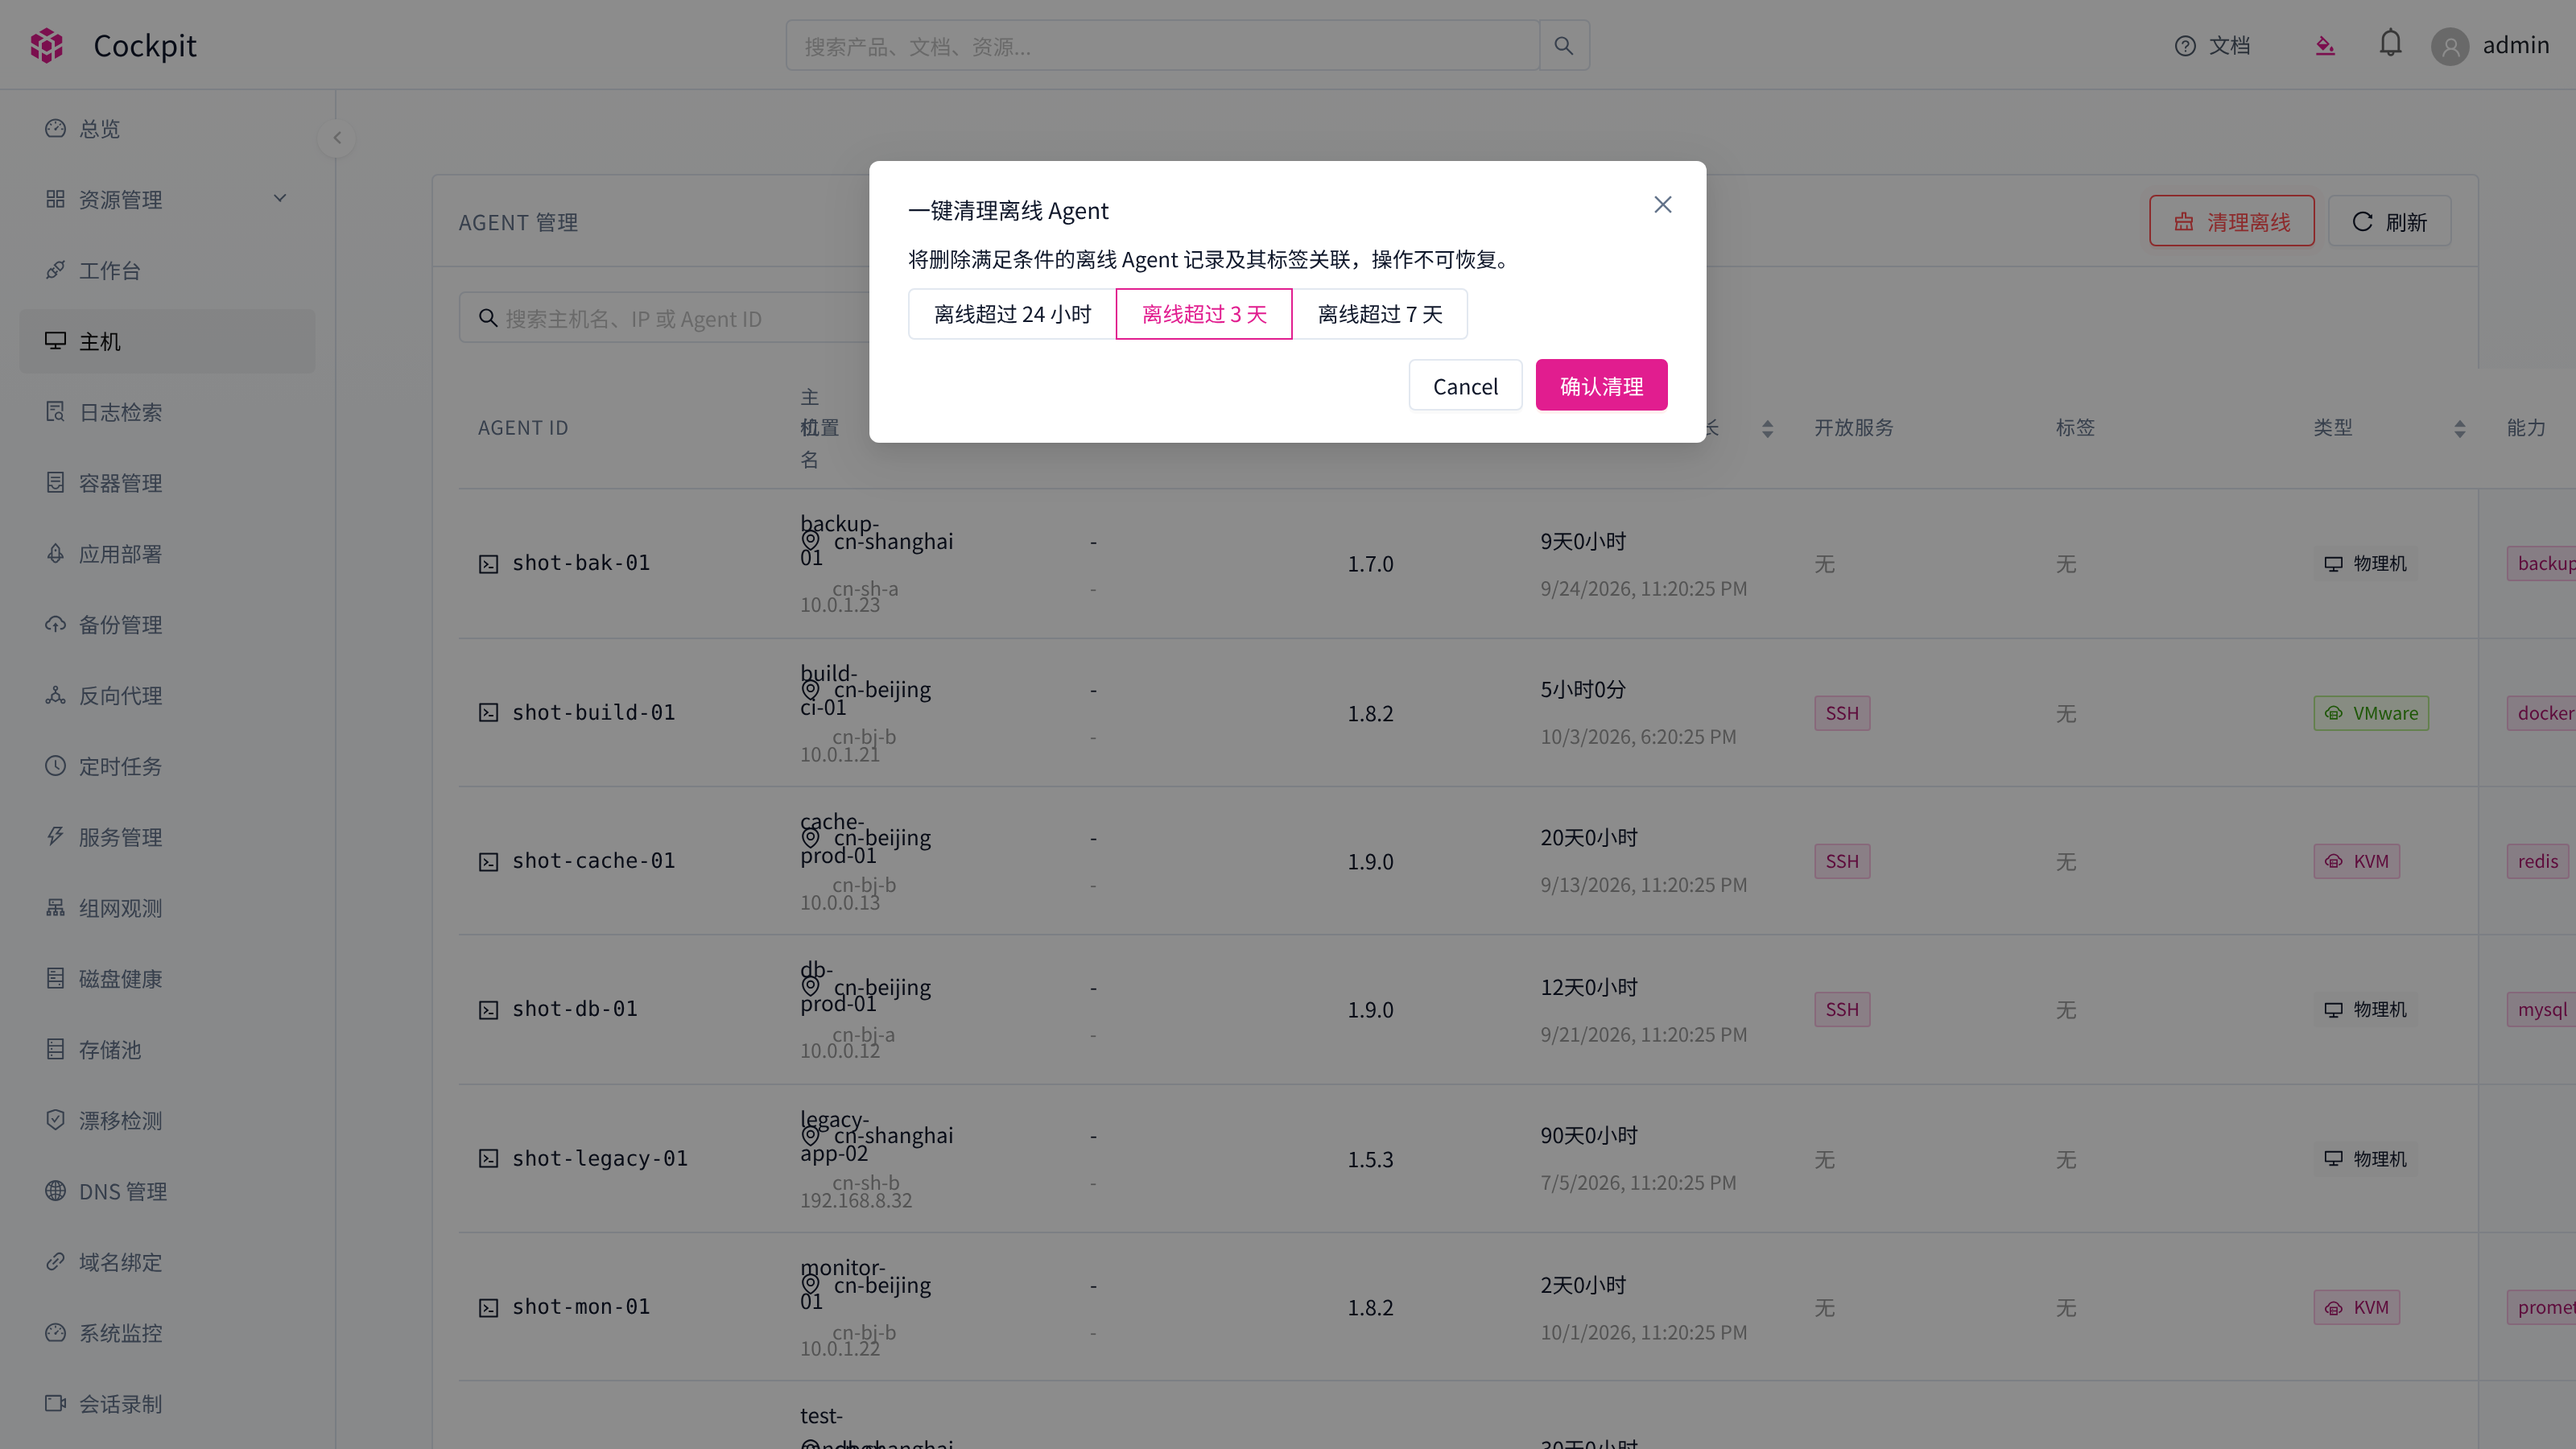
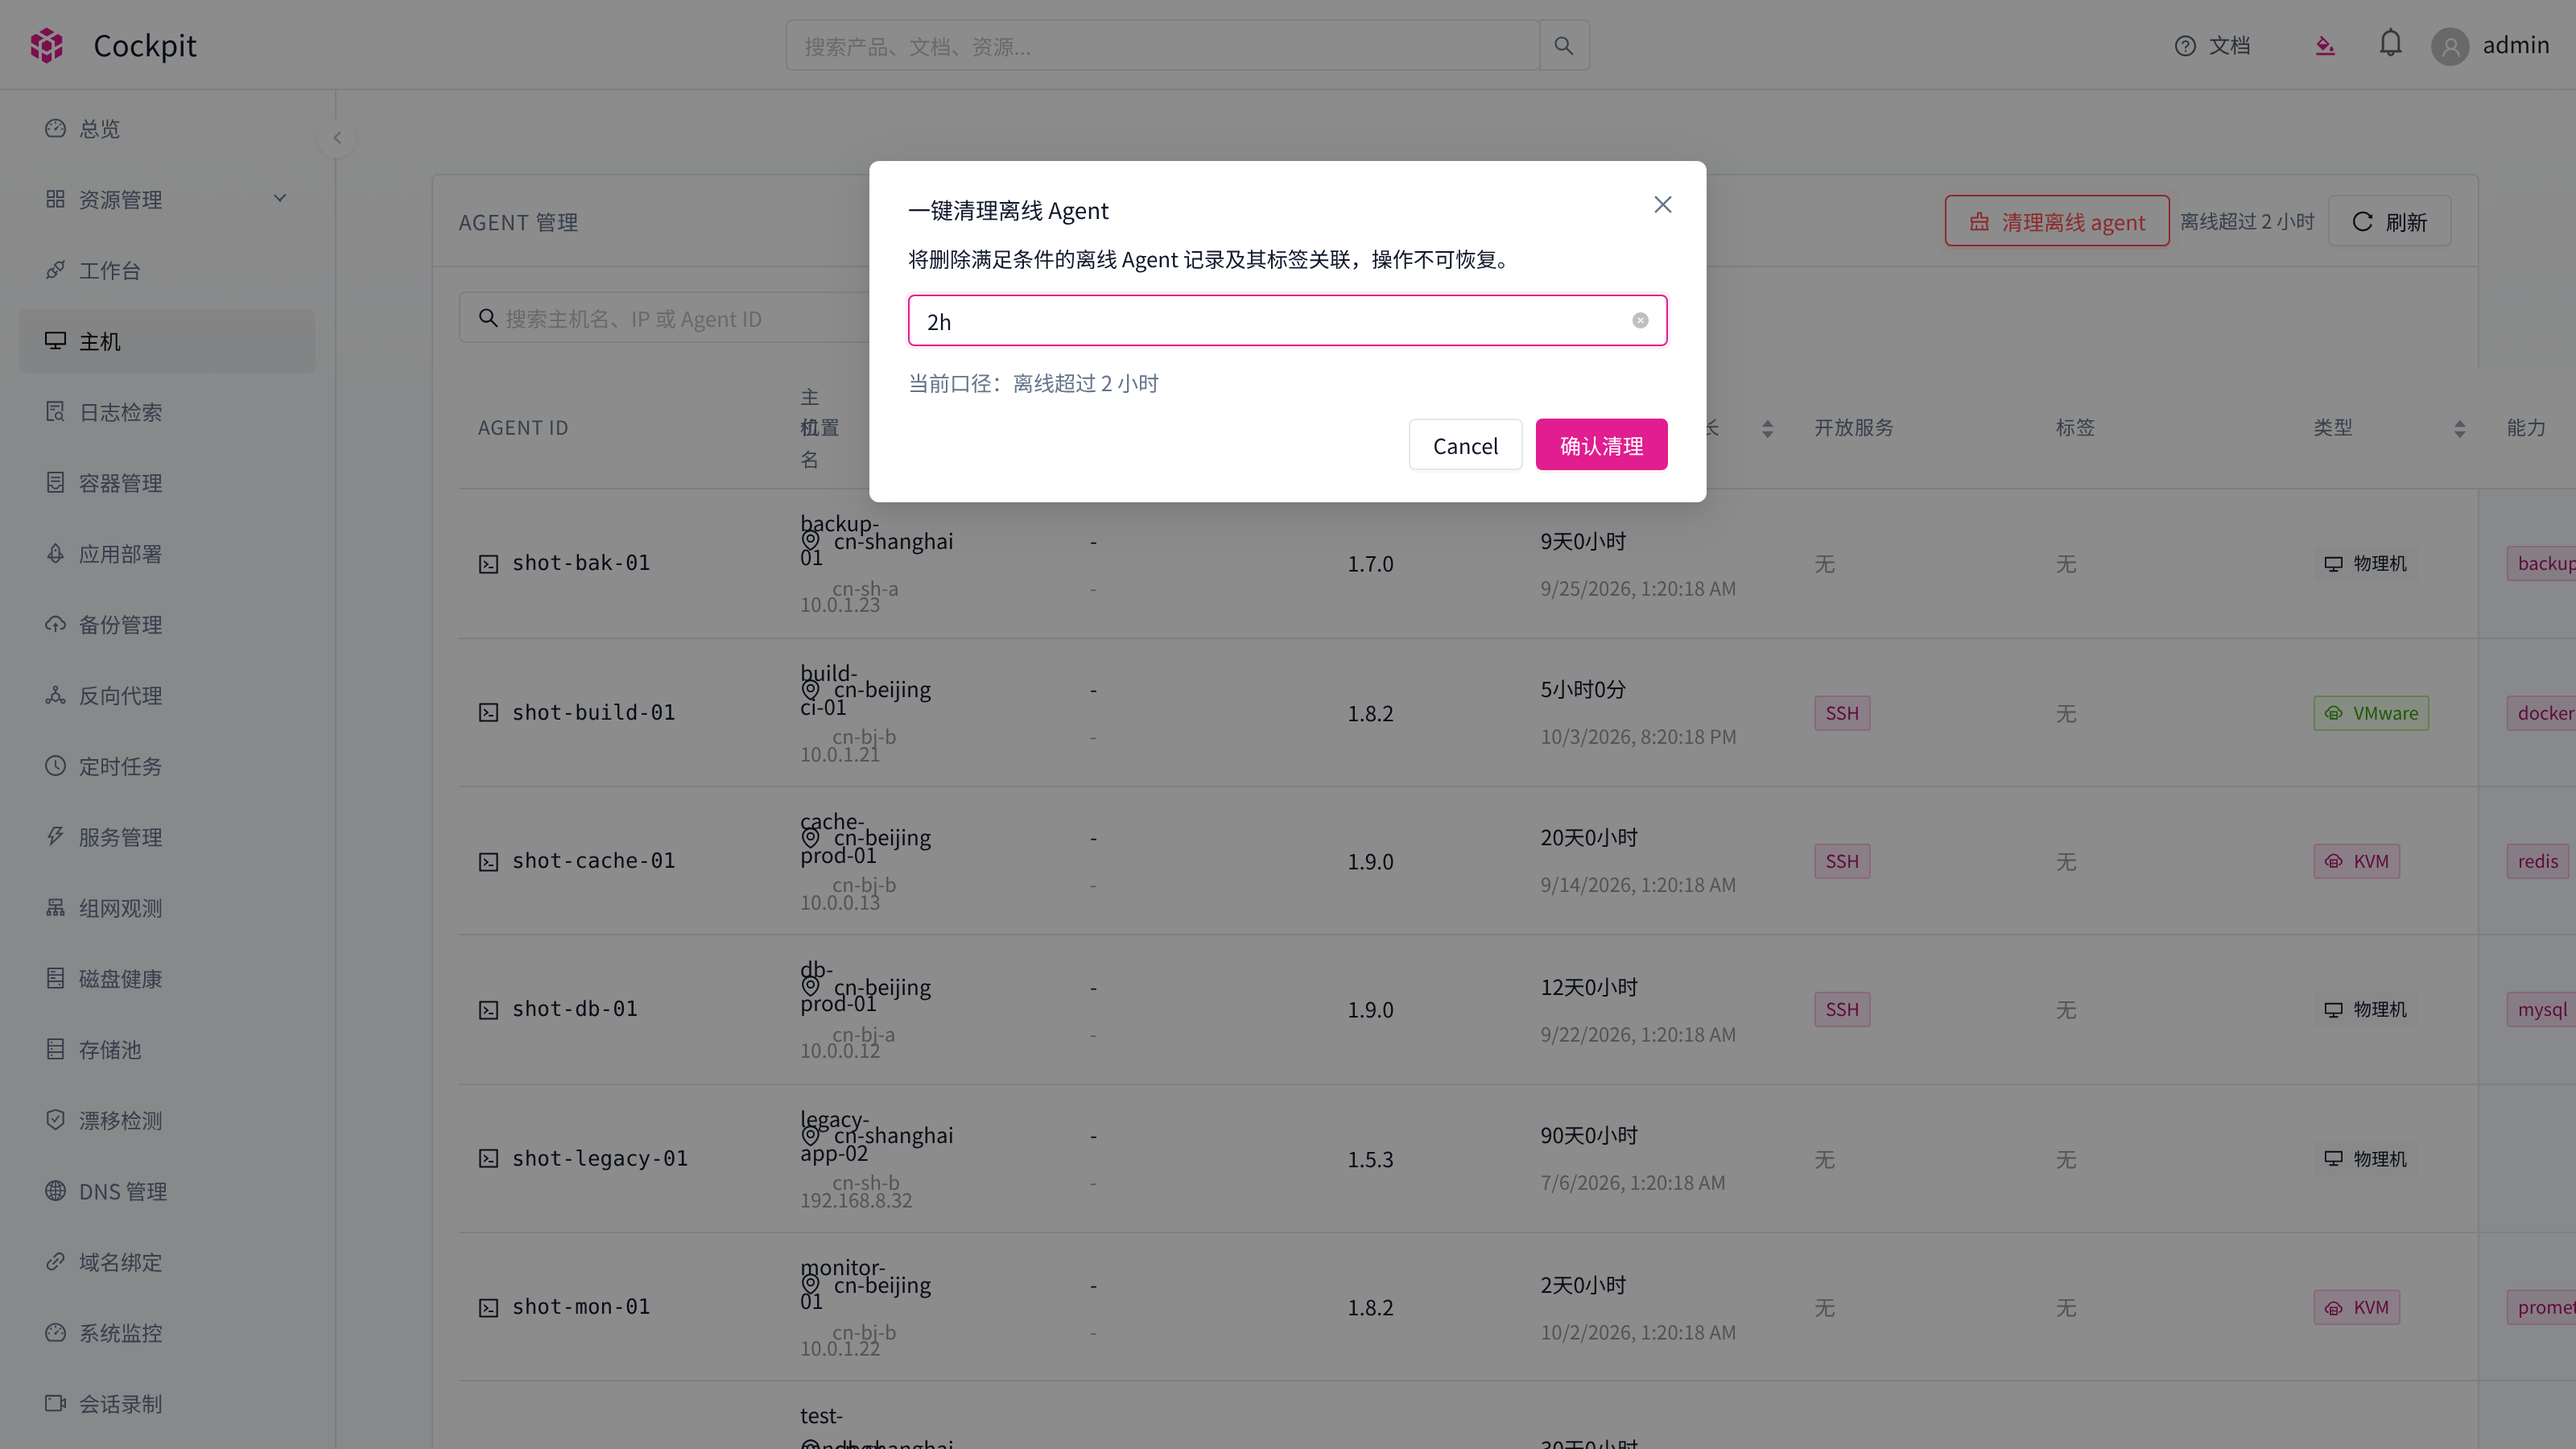
docs: 重截总览与清理弹窗截图（阈值自由填口径）+ 走马灯 alt 同步
- dashboard.png：按钮「清理离线 agent」+ 旁注「全部离线」
- agents-cleanup.png：自由填输入框（示例 2h）+「当前口径：离线超过 2 小时」
- Screenshots.vue alt 从三档改为自由填描述；走查实证默认全清 8 台

Changed region(s): [[0.3125, 0.1867, 0.6875, 0.3733], [0.7812, 0.1244, 0.9062, 0.1867]]

diff --git a/docs/.vitepress/theme/Screenshots.vue b/docs/.vitepress/theme/Screenshots.vue
@@ -7,7 +7,7 @@ import { withBase } from 'vitepress'
 // 路径须经 withBase 以兼容 GitHub Pages 子路径部署（base: /cockpit/）。
 const shots = [
   { src: '/screenshots/dashboard.png', alt: '总览：资源统计卡、健康度与 Agent 列表（离线置底弱化并标注离线时长）' },
-  { src: '/screenshots/agents-cleanup.png', alt: 'Agent 管理：一键清理离线（24 小时 / 3 天 / 7 天三档阈值二次确认）' },
+  { src: '/screenshots/agents-cleanup.png', alt: 'Agent 管理：清理离线 agent（阈值自由填 30m / 2h / 7d，留空 = 全部离线）' },
   { src: '/screenshots/dns.png', alt: 'DNS 记录管理：按 zone 增删改查与批量导入 / 导出' },
   { src: '/screenshots/audit.png', alt: '审计日志：动作 / 资源 / 结果多维检索' },
   { src: '/screenshots/workbench.png', alt: '工作台：容器编排与快速操作入口' },
